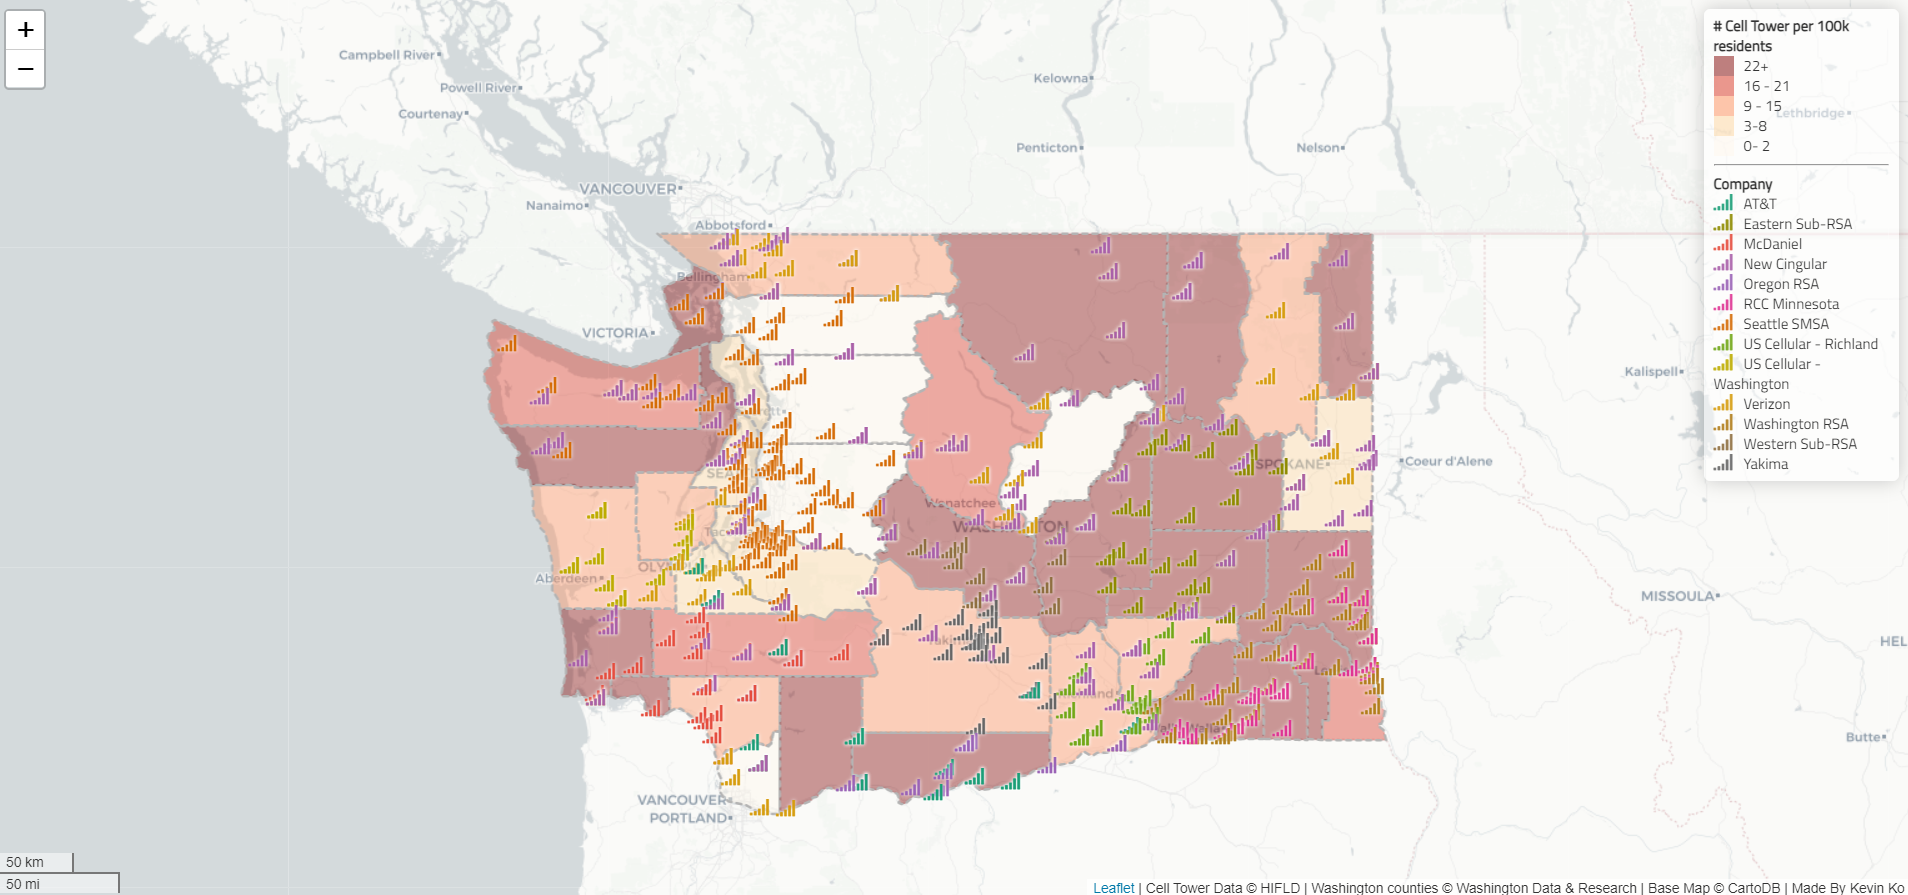
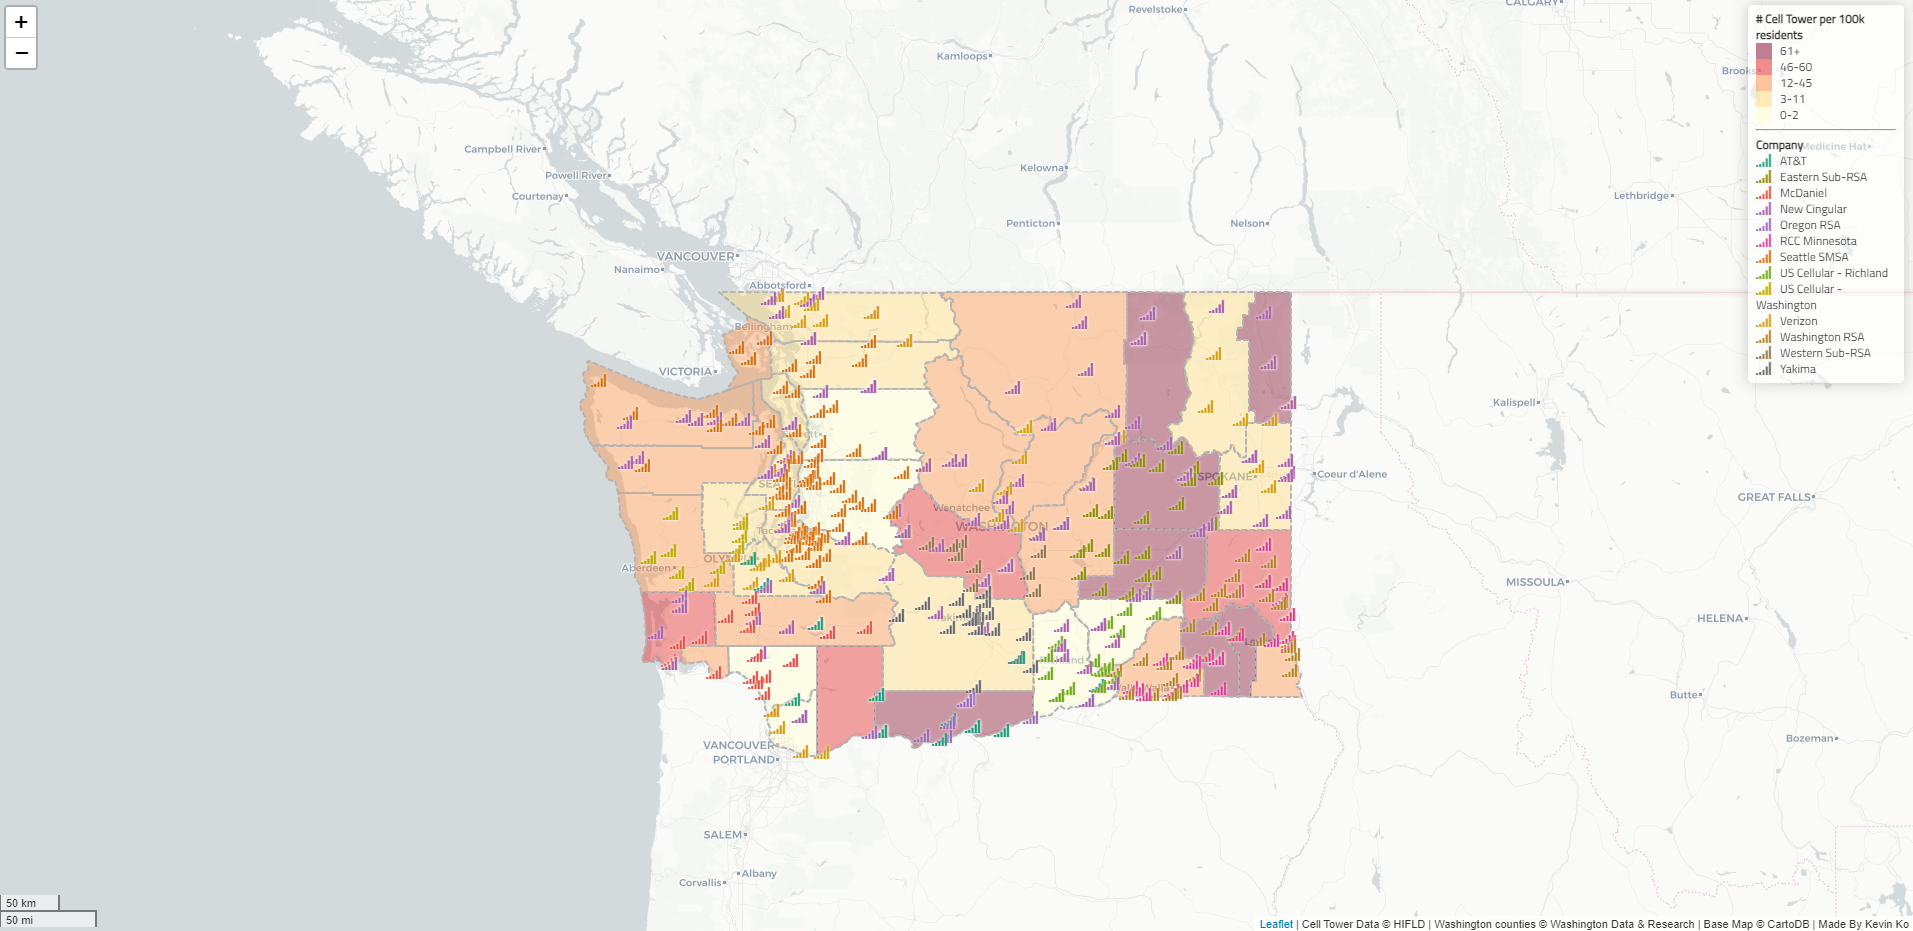
final modifications for lab03

diff --git a/map5.html b/map5.html
@@ -6,7 +6,7 @@
   <title>Cell Towers in Washington (2010)</title>
   <link rel="stylesheet" href="https://unpkg.com/leaflet@1.4.0/dist/leaflet.css"/>
   <link rel="stylesheet" href="https://cdnjs.cloudflare.com/ajax/libs/font-awesome/4.7.0/css/font-awesome.css"/>
-  <link href="https://fonts.googleapis.com/css?family=Titillium+Web" rel="stylesheet">
+  <link href="https://fonts.googleapis.com/css2?family=Open+Sans&display=swap" rel="stylesheet">
 <link href="https://fonts.googleapis.com/css2?family=Lobster&display=swap" rel="stylesheet">
   <style>
 
@@ -16,7 +16,7 @@
           line-height: 16px;
           width: 140px;
           color: #333333;
-          font-family: 'Lobster', cursive;
+          font-family: 'Open Sans', cursive;
           padding: 6px 8px;
           background: white;
           background: rgba(255,255,255,0.5);
@@ -110,14 +110,14 @@
   }).addTo(mymap);
 
   // 6. Set function for color ramp
-  colors = chroma.scale('OrRd').colors(5);
+  colors = chroma.scale('YlOrRd').colors(5);
 
   function setColor(density) {
       var id = 0;
-      if (density > 22) { id = 4; }
-      else if (density > 16 && density <= 21) { id = 3; }
-      else if (density > 9 && density <= 15) { id = 2; }
-      else if (density > 3 &&  density <= 8) { id = 1; }
+      if (density > 61) { id = 4; }
+      else if (density > 46 && density <= 60) { id = 3; }
+      else if (density > 12 && density <= 45) { id = 2; }
+      else if (density > 3 &&  density <= 11) { id = 1; }
       else  { id = 0; }
       return colors[id];
   }
@@ -151,11 +151,11 @@
       // Create Div Element and Populate it with HTML
       var div = L.DomUtil.create('div', 'legend');
       div.innerHTML += '<b># Cell Tower per 100k residents</b><br />';
-      div.innerHTML += '<i style="background: ' + colors[4] + '; opacity: 0.5"></i><p>22+</p>';
-      div.innerHTML += '<i style="background: ' + colors[3] + '; opacity: 0.5"></i><p> 16 - 21 </p>';
-      div.innerHTML += '<i style="background: ' + colors[2] + '; opacity: 0.5"></i><p> 9 - 15 </p>';
-      div.innerHTML += '<i style="background: ' + colors[1] + '; opacity: 0.5"></i><p> 3-8 </p>';
-      div.innerHTML += '<i style="background: ' + colors[0] + '; opacity: 0.5"></i><p> 0- 2 </p>';
+      div.innerHTML += '<i style="background: ' + colors[4] + '; opacity: 0.5"></i><p> 61+ </p>';
+      div.innerHTML += '<i style="background: ' + colors[3] + '; opacity: 0.5"></i><p> 46-60 </p>';
+      div.innerHTML += '<i style="background: ' + colors[2] + '; opacity: 0.5"></i><p> 12-45 </p>';
+      div.innerHTML += '<i style="background: ' + colors[1] + '; opacity: 0.5"></i><p> 3-11 </p>';
+      div.innerHTML += '<i style="background: ' + colors[0] + '; opacity: 0.5"></i><p> 0-2 </p>';
       div.innerHTML += '<hr><b>Company<b><br />';
       div.innerHTML += '<i class="fa fa-signal marker-color-1"></i><p> AT&T </p>';
       div.innerHTML += '<i class="fa fa-signal marker-color-2"></i><p> Eastern Sub-RSA </p>';
@@ -174,13 +174,12 @@
       return div;
   };
 
-
   // 11. Add a legend to map
   legend.addTo(mymap);
 
   // 12. Add a scale bar to map
   L.control.scale({position: 'bottomleft'}).addTo(mymap);
-
+  
 </script>
 </body>
 </html>

diff --git a/js/main.js b/js/main.js
@@ -51,15 +51,14 @@ cellTowers= L.geoJson.ajax("assets/celltowers.geojson", {
 }).addTo(mymap);
 
 // 6. Set function for color ramp
-colors = chroma.scale('OrRd').colors(5);
+colors = chroma.scale('YlOrRd').colors(5);
 
 function setColor(density) {
-    console.log(density);
     var id = 0;
-    if (density > 22) { id = 4; }
-    else if (density > 16 && density <= 21) { id = 3; }
-    else if (density > 9 && density <= 15) { id = 2; }
-    else if (density > 3 &&  density <= 8) { id = 1; }
+    if (density > 61) { id = 4; }
+    else if (density > 46 && density <= 60) { id = 3; }
+    else if (density > 12 && density <= 45) { id = 2; }
+    else if (density > 3 &&  density <= 11) { id = 1; }
     else  { id = 0; }
     return colors[id];
 }
@@ -93,11 +92,11 @@ legend.onAdd = function () {
     // Create Div Element and Populate it with HTML
     var div = L.DomUtil.create('div', 'legend');
     div.innerHTML += '<b># Cell Tower per 100k residents</b><br />';
-    div.innerHTML += '<i style="background: ' + colors[4] + '; opacity: 0.5"></i><p>22+</p>';
-    div.innerHTML += '<i style="background: ' + colors[3] + '; opacity: 0.5"></i><p> 16 - 21 </p>';
-    div.innerHTML += '<i style="background: ' + colors[2] + '; opacity: 0.5"></i><p> 9 - 15 </p>';
-    div.innerHTML += '<i style="background: ' + colors[1] + '; opacity: 0.5"></i><p> 3-8 </p>';
-    div.innerHTML += '<i style="background: ' + colors[0] + '; opacity: 0.5"></i><p> 0- 2 </p>';
+    div.innerHTML += '<i style="background: ' + colors[4] + '; opacity: 0.5"></i><p> 61+ </p>';
+    div.innerHTML += '<i style="background: ' + colors[3] + '; opacity: 0.5"></i><p> 46-60 </p>';
+    div.innerHTML += '<i style="background: ' + colors[2] + '; opacity: 0.5"></i><p> 12-45 </p>';
+    div.innerHTML += '<i style="background: ' + colors[1] + '; opacity: 0.5"></i><p> 3-11 </p>';
+    div.innerHTML += '<i style="background: ' + colors[0] + '; opacity: 0.5"></i><p> 0-2 </p>';
     div.innerHTML += '<hr><b>Company<b><br />';
     div.innerHTML += '<i class="fa fa-signal marker-color-1"></i><p> AT&T </p>';
     div.innerHTML += '<i class="fa fa-signal marker-color-2"></i><p> Eastern Sub-RSA </p>';

diff --git a/map4.html b/map4.html
@@ -72,19 +72,18 @@
     }).addTo(mymap);
 
     // 6. Set function for color ramp
-    colors = chroma.scale('OrRd').colors(5);
+    colors = chroma.scale('YlOrRd').colors(5);
 
     function setColor(density) {
         var id = 0;
-        if (density > 22) { id = 4; }
-        else if (density > 16 && density <= 21) { id = 3; }
-        else if (density > 9 && density <= 15) { id = 2; }
-        else if (density > 3 &&  density <= 8) { id = 1; }
+        if (density > 61) { id = 4; }
+        else if (density > 46 && density <= 60) { id = 3; }
+        else if (density > 12 && density <= 45) { id = 2; }
+        else if (density > 3 &&  density <= 11) { id = 1; }
         else  { id = 0; }
         return colors[id];
     }
-
-
+    
     // 7. Set style function that sets fill color.md property equal to cell tower density
     function style(feature) {
         return {

diff --git a/README.md b/README.md
@@ -25,7 +25,7 @@ Inside the `body` tag, we put a `map` div tag for holding the map object. After 
 <html>
 <head>
     <meta charset="UTF-8">
-    <title>Cell Towers in Oregon (2009)</title>
+    <title>Cell Towers in Washington (2010)</title>
     <link rel="stylesheet" href="https://unpkg.com/leaflet@1.4.0/dist/leaflet.css"/>
     <style>
 
@@ -253,18 +253,18 @@ Let us do something about that default blue and thematically style our data to t
 
 ### 3.1 Set a sequential color palette
 
-The first step is to set up a function to create color classes.  One way to hard code the colors is to make the color scheme via QGIS or ArcGIS, selecting some classification rule like Jenk's Natural Breaks, and copy the break numbers as well as the color value. Alternatively, you can check out a color ramp from [colorbrewer2.org](<>). In this lab, you will use `chroma.js` to dynamically create an array of colors. Since the number of cell towers in each county is ordered data that progress from low to high, we will use a sequential color palette `OrRd` (meaning from Orange to Red). Then, we develop a `setColor` function that returns the color value using the number of cell tower lying in a county. Add the following code snippet in the `script` tag.
+The first step is to set up a function to create color classes.  One way to hard code the colors is to make the color scheme via QGIS or ArcGIS, selecting some classification rule like Jenk's Natural Breaks, and copy the break numbers as well as the color value. Alternatively, you can check out a color ramp from [colorbrewer2.org](<>). In this lab, you will use `chroma.js` to dynamically create an array of colors. Since the number of cell towers in each county is ordered data that progress from low to high, we will use a sequential color palette `YlOrRd` (meaning from Yellow, Orange to Red). Then, we develop a `setColor` function that returns the color value using the number of cell tower lying in a county. Add the following code snippet in the `script` tag.
 
 ```js
 // 6. Set function for color ramp
-colors = chroma.scale('OrRd').colors(5); //colors = chroma.scale('OrRd').colors(5);
+colors = chroma.scale('YlOrRd').colors(5);
 
 function setColor(density) {
     var id = 0;
-    if (density > 22) { id = 4; }
-    else if (density > 16 && density <= 21) { id = 3; }
-    else if (density > 9 && density <= 15) { id = 2; }
-    else if (density > 3 &&  density <= 8) { id = 1; }
+    if (density > 61) { id = 4; }
+    else if (density > 46 && density <= 60) { id = 3; }
+    else if (density > 12 && density <= 45) { id = 2; }
+    else if (density > 3 &&  density <= 11) { id = 1; }
     else  { id = 0; }
     return colors[id];
 }
@@ -324,11 +324,11 @@ legend.onAdd = function () {
     // Create Div Element and Populate it with HTML
     var div = L.DomUtil.create('div', 'legend');
     div.innerHTML += '<b># Cell Tower per 100k residents</b><br />';
-    div.innerHTML += '<i style="background: ' + colors[4] + '; opacity: 0.5"></i><p>22+</p>';
-    div.innerHTML += '<i style="background: ' + colors[3] + '; opacity: 0.5"></i><p> 16 - 21 </p>';
-    div.innerHTML += '<i style="background: ' + colors[2] + '; opacity: 0.5"></i><p> 9 - 15 </p>';
-    div.innerHTML += '<i style="background: ' + colors[1] + '; opacity: 0.5"></i><p> 3-8 </p>';
-    div.innerHTML += '<i style="background: ' + colors[0] + '; opacity: 0.5"></i><p> 0- 2 </p>';
+    div.innerHTML += '<i style="background: ' + colors[4] + '; opacity: 0.5"></i><p> 61+ </p>';
+    div.innerHTML += '<i style="background: ' + colors[3] + '; opacity: 0.5"></i><p> 46-60 </p>';
+    div.innerHTML += '<i style="background: ' + colors[2] + '; opacity: 0.5"></i><p> 12-45 </p>';
+    div.innerHTML += '<i style="background: ' + colors[1] + '; opacity: 0.5"></i><p> 3-11 </p>';
+    div.innerHTML += '<i style="background: ' + colors[0] + '; opacity: 0.5"></i><p> 0-2 </p>';
     div.innerHTML += '<hr><b>Company<b><br />';
     div.innerHTML += '<i class="fa fa-signal marker-color-1"></i><p> AT&T </p>';
     div.innerHTML += '<i class="fa fa-signal marker-color-2"></i><p> Eastern Sub-RSA </p>';
@@ -411,25 +411,25 @@ Save and refresh the html page. Open `map4.html`  to see the legend and scale ba
 
 Choosing fonts is an essential part of cartography, and an often overlooked one. Right now, our map uses the default Browser font, usually Times New Roman. To edit fonts, we want to style CSS. In CSS, there are many options for fonts; for more reading, check out the [w3schools font documentation](http://www.w3schools.com/css/css_font.asp).
 
-Traditionally, the font is loaded into your page only if you have it on your computer. This presents a problem though, if someone does not have the font, it will change the page to use secondary or default fonts. In order to ensure that every visitor's computer displays the same, you can link to online font libraries. A standard, useful online font library is Google Fonts. Google fonts can be added to any site, and since you link to the style, you do not have to worry about the user not having the font installed on their computer. Check out the Google Font library and explore their options. Let us link a standard web font called `Titillium Web` to our document so we can use it. To link it to our document, enter the following line of code into the head section of your document. It should go right after your stylesheets.
+Traditionally, the font is loaded into your page only if you have it on your computer. This presents a problem though, if someone does not have the font, it will change the page to use secondary or default fonts. In order to ensure that every visitor's computer displays the same, you can link to online font libraries. A standard, useful online font library is Google Fonts. Google fonts can be added to any site, and since you link to the style, you do not have to worry about the user not having the font installed on their computer. Check out the Google Font library and explore their options. Let us link a standard web font called `Open Sans` to our document so we can use it. To link it to our document, enter the following line of code into the head section of your document. It should go right after your stylesheets.
 
 ```html
 <head>...
-<link href="https://fonts.googleapis.com/css?family=Titillium+Web" rel="stylesheet">
+<link href="https://fonts.googleapis.com/css2?family=Open+Sans&display=swap" rel="stylesheet">
 ...</head>
 ```
 
-Next, to style all text in our document with the `Titillium Web` font, modify the `.legend` tag in the CSS (the code between the style tags). Modify the body CSS properties to look like the following, adding a font-family property after margin.
+Next, to style all text in our document with the `Open Sans` font, modify the `.legend` tag in the CSS (the code between the style tags). Modify the body CSS properties to look like the following, adding a font-family property after margin.
 
 ```html
 .legend {
     ...
-    font-family: 'Titillium Web', sans-serif;
+    font-family: 'Open Sans', sans-serif;
     ...
 }
 ```
 
-Save and refresh your map. Or open `map5.html`.  `Titillium Web` will now be your preferred font for legend panel!
+Save and refresh your map. Or open `map5.html`.  `Open Sans` will now be your preferred font for legend panel!
 
 ![](imgs/map5.png)
 
